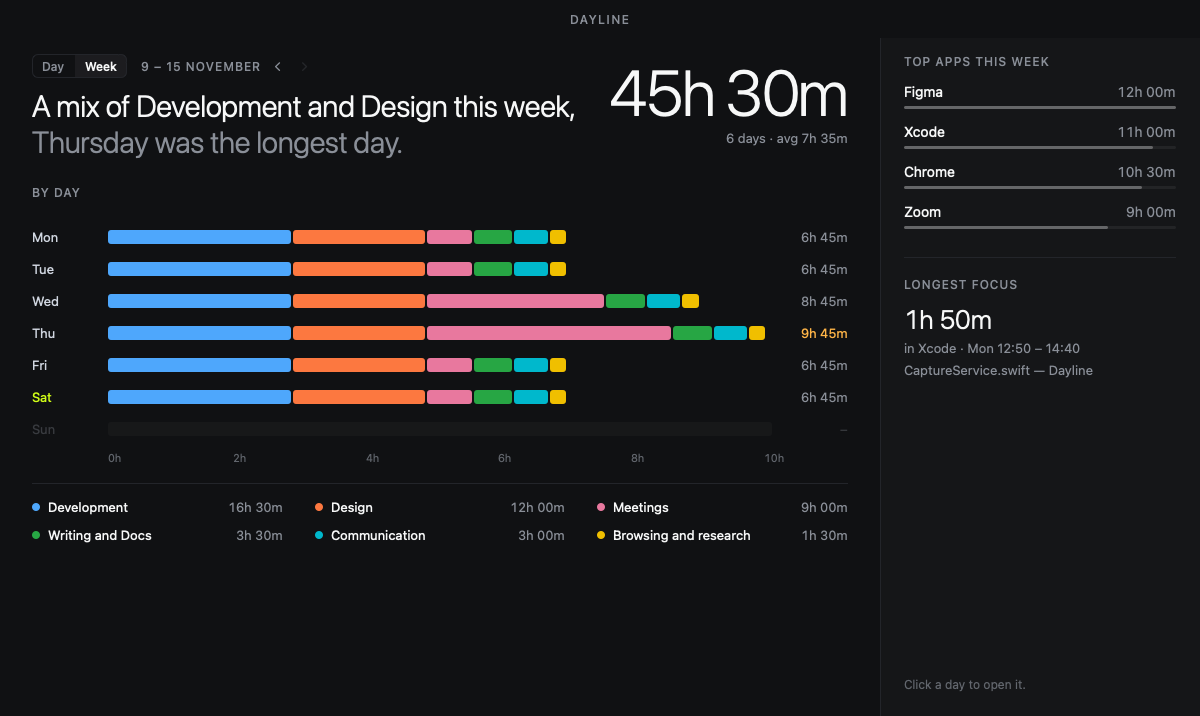
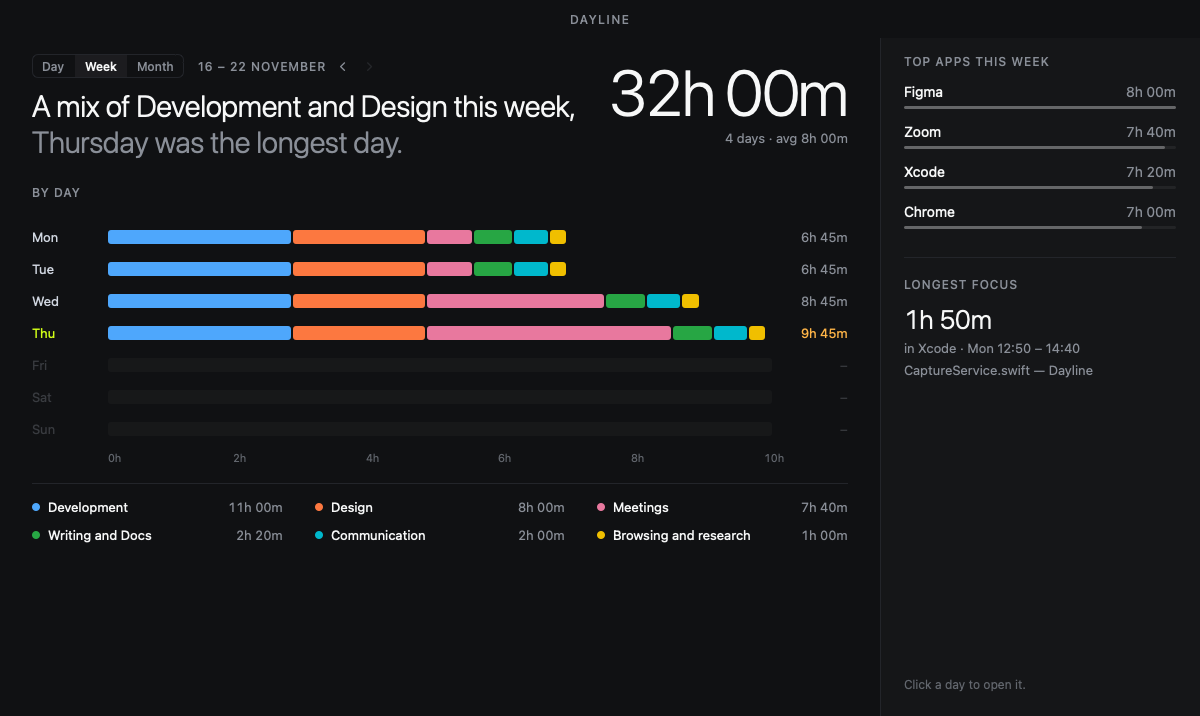
Refresh README screenshots, add month, by project and projects
Sample data uses neutral client names (Acme, Northwind) and a rate.

diff --git a/Sources/ui-snapshots/main.swift b/Sources/ui-snapshots/main.swift
@@ -146,10 +146,10 @@ let selectedVM = HomeViewModel(report: correctedReport)
 let corrected = correctedReport.blocks.first { $0.host == "developer.apple.com" }!
 selectedVM.selection = corrected.id
 selectedVM.pendingCorrection = Correction.subject(for: corrected, category: .development)
-// Projects: Onboarding blocks belong to Erste · Krediti by a rule; one is selected
+// Projects: Onboarding blocks belong to Acme · Onboarding by a rule; one is selected
 // right after picking it by hand, with the Always prompt.
-let krediti = Project(id: 1, name: "Krediti", clientID: 1, clientName: "Erste")
-let georgeApp = Project(id: 2, name: "George app", clientID: 1, clientName: "Erste")
+let krediti = Project(id: 1, name: "Onboarding", clientID: 1, clientName: "Acme", clientRate: 60, clientCurrency: "EUR")
+let georgeApp = Project(id: 2, name: "Mobile app", clientID: 1, clientName: "Acme", clientRate: 60, clientCurrency: "EUR")
 let projectRule = ProjectRule(id: 1, projectID: 1, kind: .titleContains, pattern: "Onboarding", createdAt: at(9, 0))
 let projectReport = homeReport.withProjects(ProjectResolver(projects: [krediti, georgeApp], rules: [projectRule]), segments: homeDay)
 let projectVM = HomeViewModel(report: projectReport)
@@ -160,7 +160,7 @@ projectVM.pendingProjectRule = ProjectCorrection(blockID: pickedBlock.id, kind: 
 let ruleVM = HomeViewModel(report: projectReport)
 ruleVM.projects = [krediti, georgeApp]
 ruleVM.selection = projectReport.blocks.first { $0.title == "Onboarding – Figma" }!.id
-// By project lanes, then the same day narrowed to Erste.
+// By project lanes, then the same day narrowed to Acme.
 let byProjectVM = HomeViewModel(report: projectReport)
 byProjectVM.projects = [krediti, georgeApp]
 byProjectVM.mode = .byProject
@@ -170,7 +170,7 @@ let scopedVM = HomeViewModel(report: DayReport(segments: ersteDay, dayStart: day
     .withProjects(ersteResolver, segments: ersteDay))
 scopedVM.projects = [krediti, georgeApp]
 scopedVM.mode = .byProject
-scopedVM.setScope(.client(Client(id: 1, name: "Erste")))
+scopedVM.setScope(.client(Client(id: 1, name: "Acme", currency: "EUR", rate: 60)))
 scopedVM.unscopedTracked = homeReport.tracked
 func vm(_ report: DayReport, _ phase: TrackingPhase, granted: Bool = false) -> HomeViewModel {
     let v = HomeViewModel(report: report)
@@ -330,9 +330,9 @@ MainActor.assumeIsolated {
     s.titlesOnScreen = .calls
     s.storageText = "4.2 MB since 9 Nov"
     s.builtins = BuiltinRules.all.map { BuiltinRuleRow(kind: $0.kind, label: $0.label, category: $0.category) }
-    s.clients = [Client(id: 1, name: "Erste"), Client(id: 2, name: "Infobip")]
-    s.projects = [krediti, georgeApp, Project(id: 3, name: "Website", clientID: 2, clientName: "Infobip"), Project(id: 4, name: "Dayline")]
-    s.projectRules = [projectRule, ProjectRule(id: 2, projectID: 1, kind: .titleContains, pattern: "kreditni", createdAt: at(8, 0))]
+    s.clients = [Client(id: 1, name: "Acme", currency: "EUR", rate: 60), Client(id: 2, name: "Northwind")]
+    s.projects = [krediti, georgeApp, Project(id: 3, name: "Website", clientID: 2, clientName: "Northwind"), Project(id: 4, name: "Dayline")]
+    s.projectRules = [projectRule, ProjectRule(id: 2, projectID: 1, kind: .titleContains, pattern: "Signup flow", createdAt: at(8, 0))]
     s.projectMonth = [1: 22 * 3600 + 600, 2: 12 * 3600 + 600, 3: 6 * 3600 + 1800, 4: 6 * 3600 + 3000]
     s.openProject = 1
     for (name, section, height) in [("settings-categories-unsorted", SettingsSection.categories, 1000.0),
@@ -356,7 +356,7 @@ MainActor.assumeIsolated {
     // The day with a block selected, without the "Always categorize" prompt.
     let readmeDay = HomeViewModel(report: correctedReport)
     readmeDay.selection = corrected.id
-    for (name, vm) in [("readme-day", readmeDay), ("readme-week", weekVM)] {
+    for (name, vm) in [("readme-day", readmeDay), ("readme-week", weekVM), ("readme-month", monthVM), ("readme-by-project", byProjectVM)] {
         let host = NSHostingView(rootView: HomeView(viewModel: vm).frame(width: 1200, height: 716))
         let win = NSWindow(contentRect: NSRect(x: -4000, y: 0, width: 1200, height: 716), styleMask: [.borderless], backing: .buffered, defer: false)
         win.contentView = host

diff --git a/README.md b/README.md
@@ -10,6 +10,12 @@ Everything stays on your Mac in one SQLite file. Dayline has no account and make
 |---|---|
 | ![The week view: each day split by category](docs/screenshots/week.png) | <img src="docs/screenshots/popover.png" alt="The popover: today's total, what you are in now and the top categories" width="320"> |
 
+![The month view: a calendar of the month, each day split by category](docs/screenshots/month.png)
+
+| By project | Projects and clients |
+|---|---|
+| ![The day by project: a lane per client and project](docs/screenshots/by-project.png) | ![Settings → Projects: hours and amounts per client and project, auto-adds and Export hours](docs/screenshots/projects.png) |
+
 ![Settings: categories, apps and sites that need a category, your rules and the never-track list](docs/screenshots/settings.png)
 
 ## What it sees, and what it never sees
